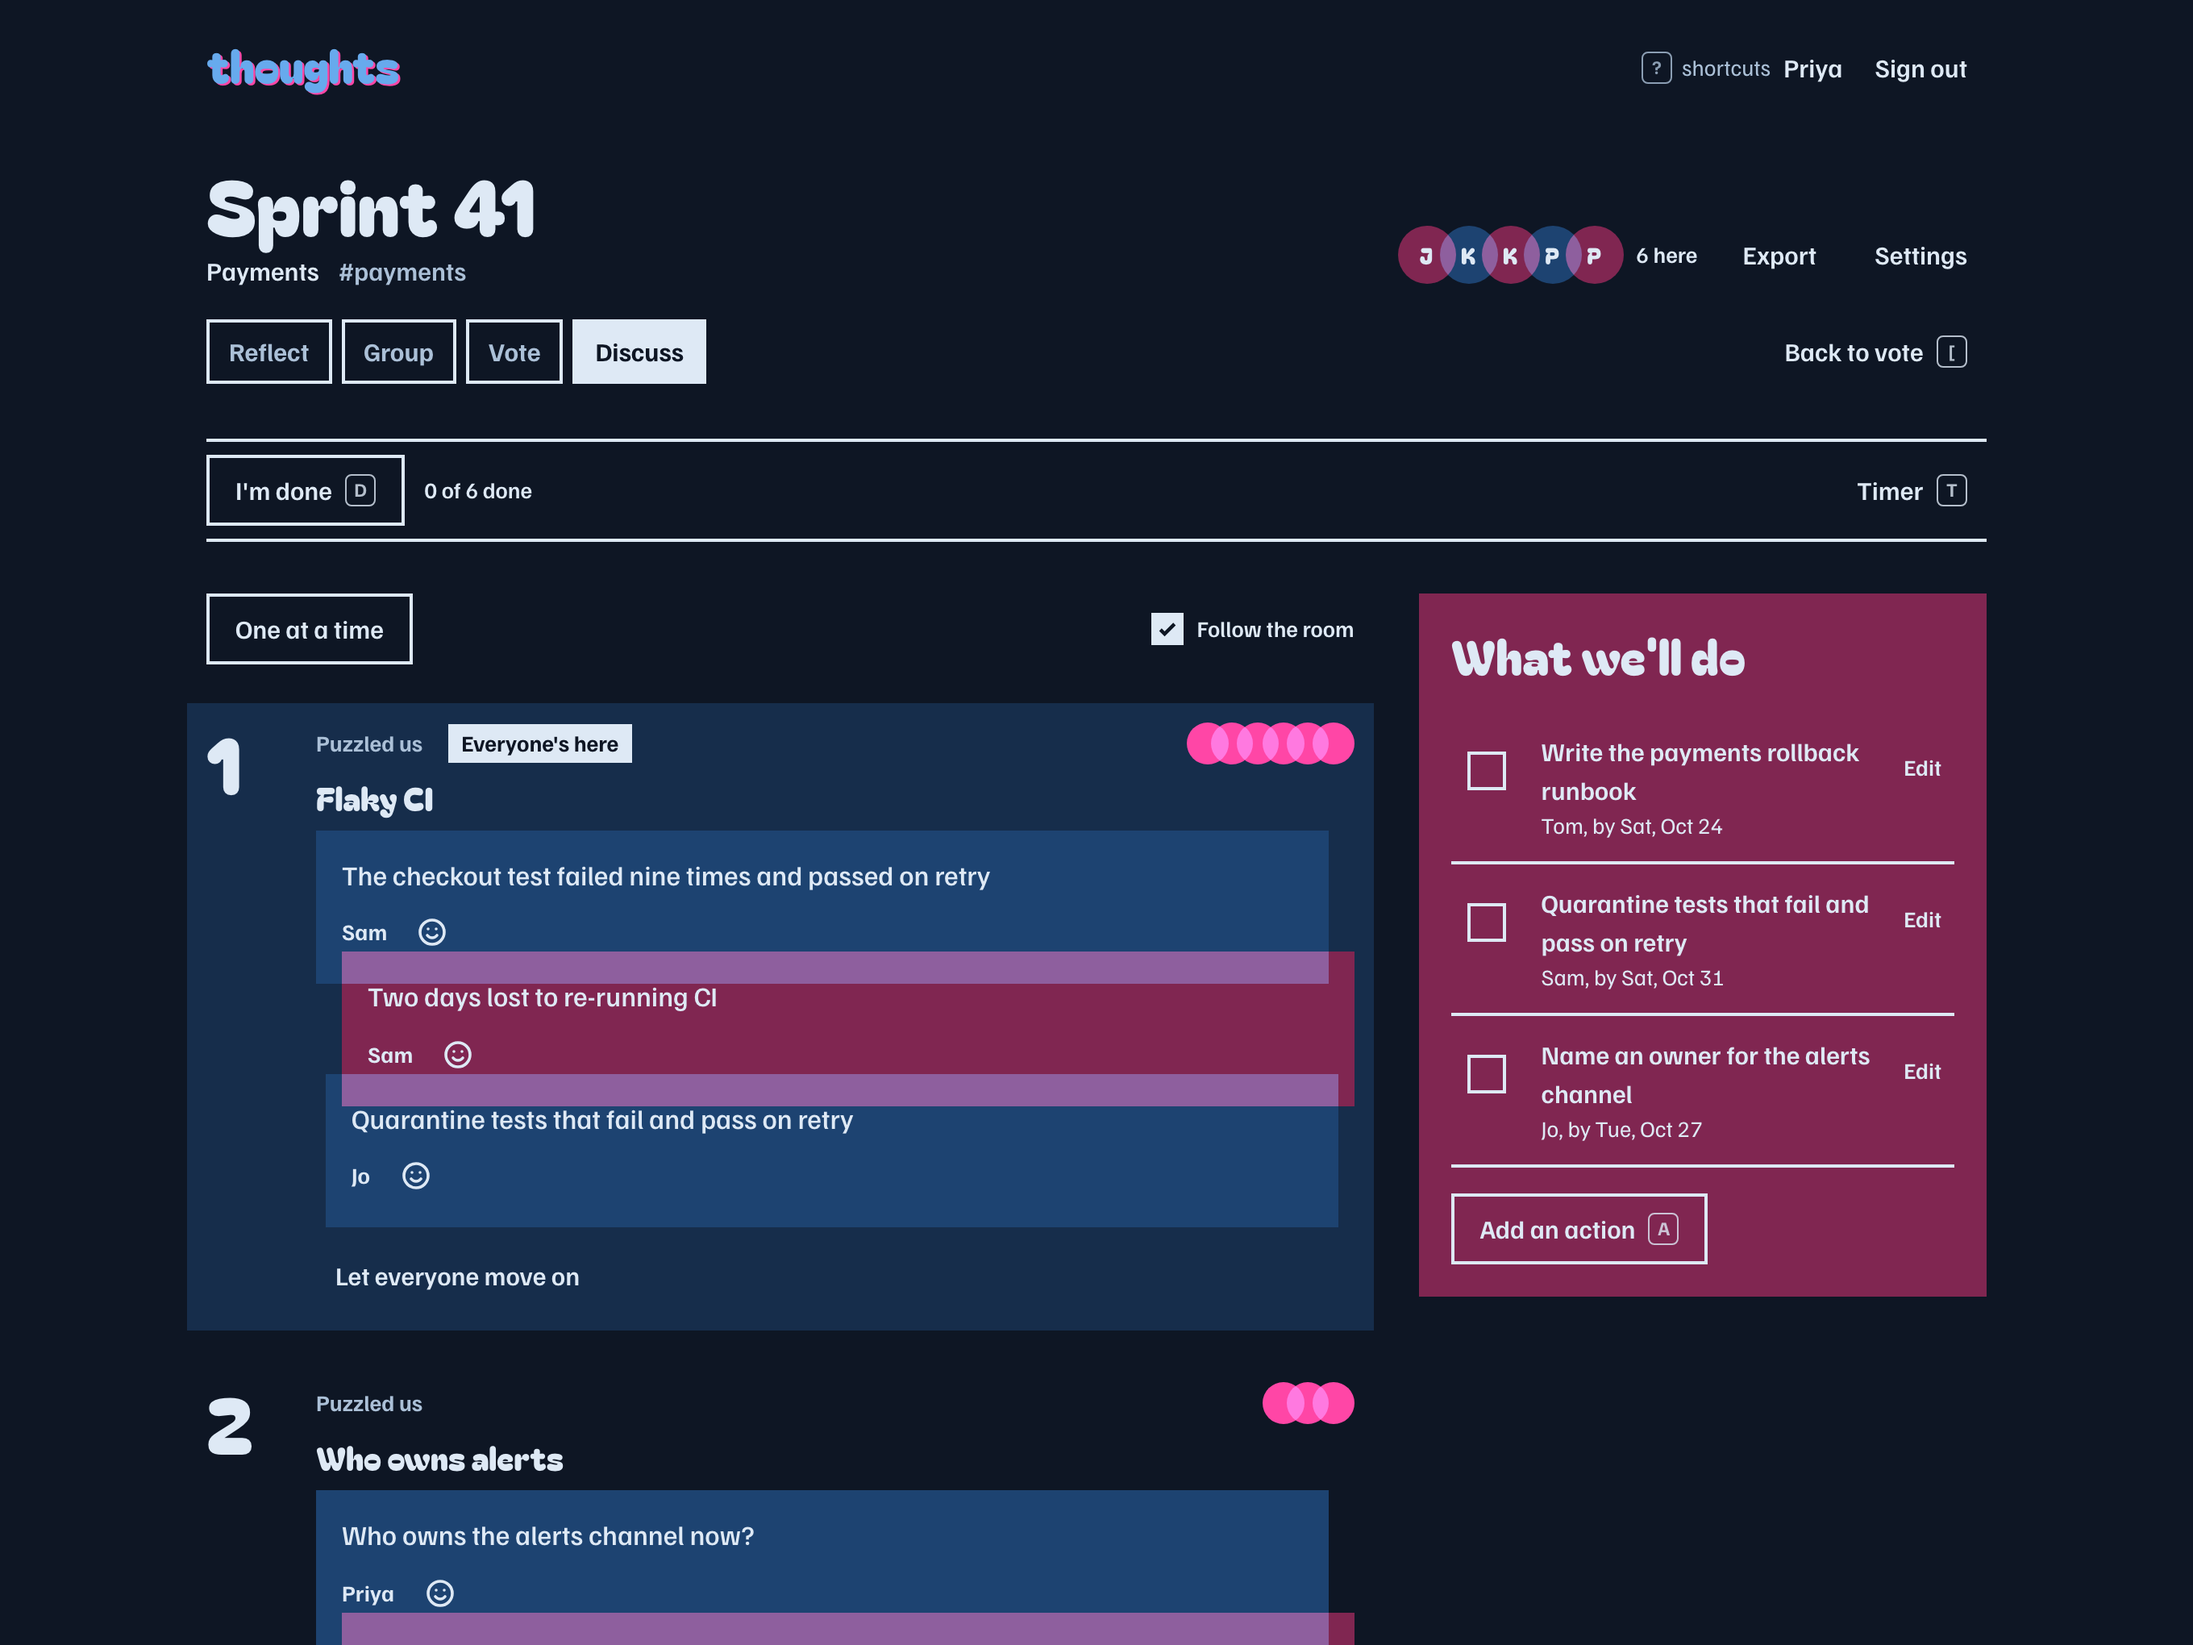
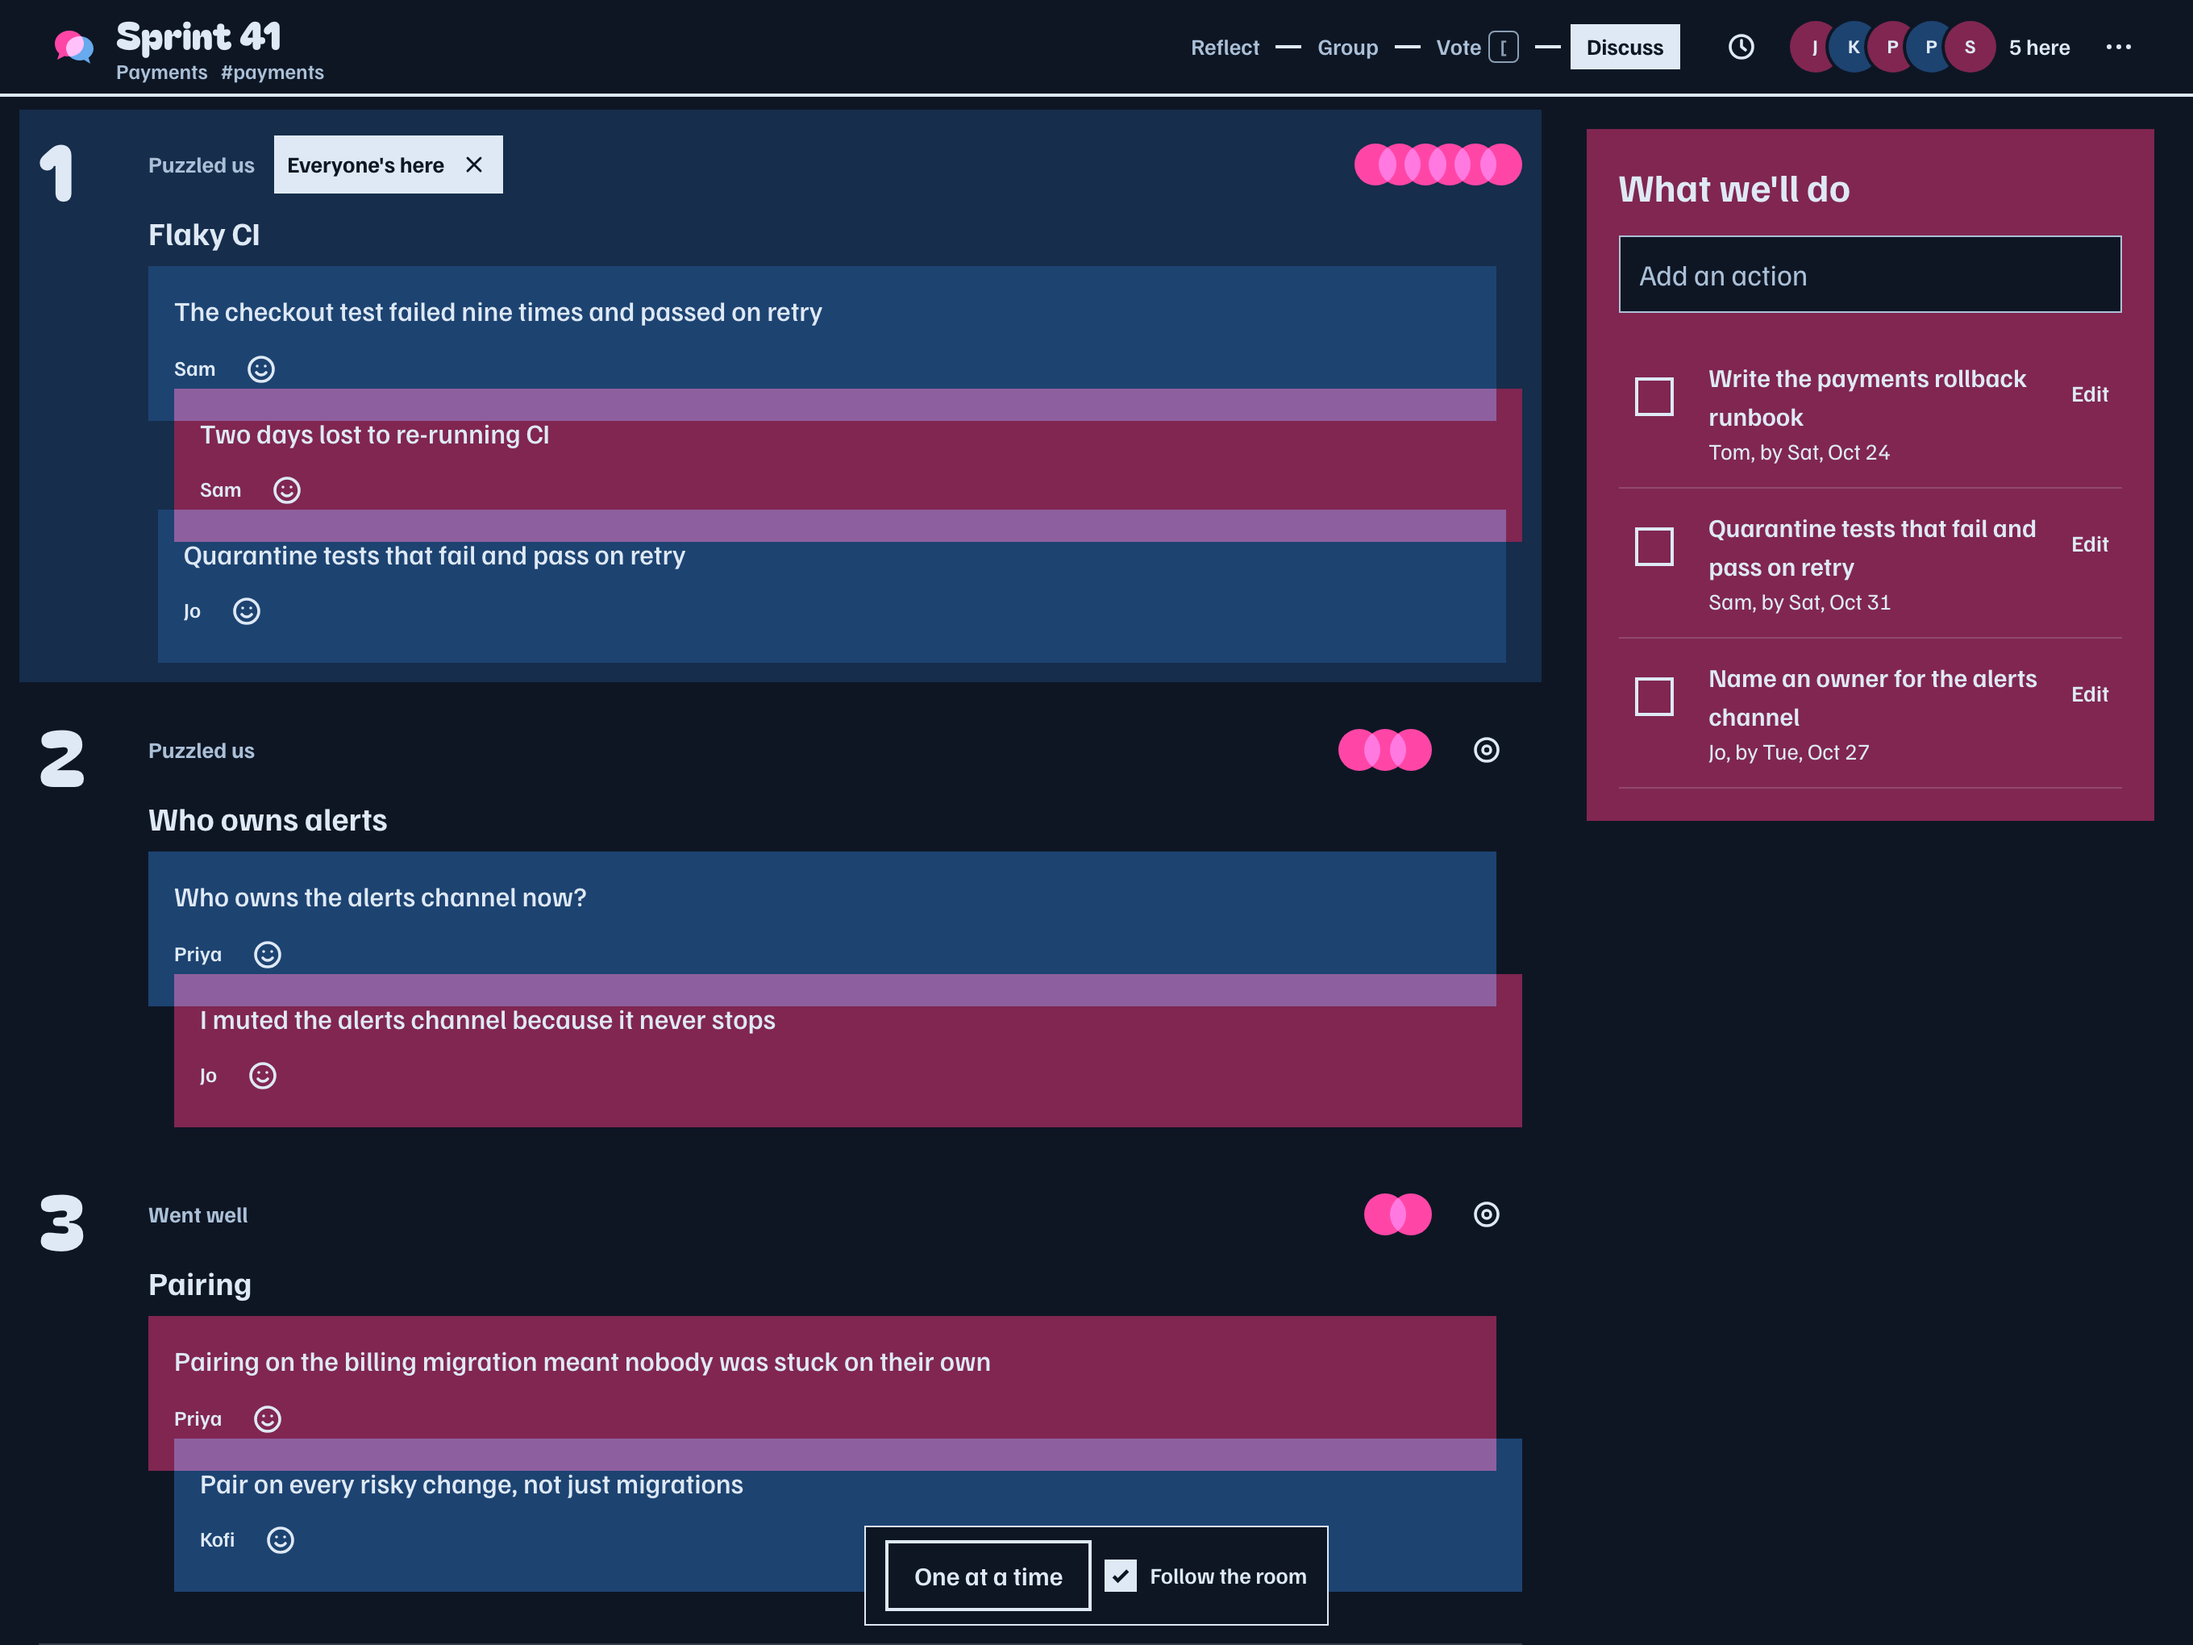
Regenerate screenshots and record the calm board
The README screenshots show the bar, the dock and stamps; the phone shot
is replaced by voting, now that Thoughts is desktop only. The README lists
the new keys and how grouping works, and design.md gets an entry for the
bar and dock, the line token, the type budget, the pink offset and motion.

diff --git a/ui/e2e/screenshots.spec.ts b/ui/e2e/screenshots.spec.ts
@@ -161,11 +161,6 @@ test("README screenshots", async ({ browser }) => {
   await settle(priya);
   await priya.screenshot({ path: out("group") });
 
-  const phone = await person(browser, "Kofi", { viewport: { width: 390, height: 844 } });
-  await phone.goto(url);
-  await settle(phone);
-  await phone.screenshot({ path: out("phone") });
-
   await send(priya, retro.id, [["stage.set", { stage: "vote" }]]);
   const votes: Record<string, string[]> = {
     Priya: ["The checkout test", "The checkout test", "Who owns the alerts"],
@@ -176,6 +171,9 @@ test("README screenshots", async ({ browser }) => {
   for (const [name, list] of Object.entries(votes)) {
     await send(people[name], retro.id, list.map((t) => ["vote.cast", { groupId: groupOf(board, t), delta: 1 }]));
   }
+  await priya.reload();
+  await settle(priya);
+  await priya.screenshot({ path: out("vote") });
   await send(priya, retro.id, [
     ["stage.set", { stage: "discuss" }],
     ["spotlight.set", { groupId: groupOf(board, "The checkout test") }],

diff --git a/docs/design.md b/docs/design.md
@@ -68,3 +68,47 @@ italic serif display, cream grounds.
   https://peopleofprint.com/best-of/pop-member-showcase-21-riso-prints/
 - Dot voting background: https://en.wikipedia.org/wiki/Dot-voting and
   https://guides.18f.gov/methods/discover/dot-voting
+
+## 2026-11-12: the calm board
+
+The zine stays; there is less chrome around it. Worked through in
+`ui-plan.md`, measured against the board as it was: four stacked header
+rows, a text button on every note and group, display type on a dozen kinds
+of heading.
+
+**Bar and dock.** Chrome is one bar at the top and one dock at the bottom.
+The bar holds what the room shares: the retro's title, the stages with the
+next one as the single solid button, the timer, who is here and the retro
+menu. The dock holds what is yours: whether you are done, the votes you
+have left, and whatever the stage adds (moving a note, one at a time,
+follow the room). Everything between them is thoughts.
+
+**The line token.** `--color-line` is ink at 18%, for hairlines between
+rows and under column titles. The 2.5px ink rule is kept for the bar's
+edge, focused inputs, outline buttons and sheets. Lists separate with
+space and a `line` hairline rather than tinted rows.
+
+**Type budget.** Bagel Fat One is for the wordmark, one title per screen,
+column titles, numerals (rank and timer) and sheet titles. Group titles,
+team names, initials and labels are Familjen Grotesk bold.
+
+**The pink offset.** A solid button's hover is a 3px pink block offset
+down and to the right, and pressing moves the button onto it. It is a
+misregistered second ink, a hard edge with no blur, not a shadow; a picked
+up note gets the same block. Retro titles in lists do the same with their
+letters.
+
+**Motion.** Motion explains a change someone else made and never delays
+input. Notes and piles glide to where a frame puts them; new notes print
+in from the top; at the reveal the halftone dots develop into flat ink;
+a band carries the new stage name across under the bar; votes land as
+stamps. Everything goes through `motion/react` under `reducedMotion="user"`,
+and a board over 120 notes swaps without moving.
+
+**Desktop only.** Thoughts is used on a laptop in a meeting. Phones are out
+of scope: the "phone first" line in the first entry no longer holds.
+Narrow windows only have to not break.
+
+Informed by: the measurements in `ui-plan.md`, print vocabulary (registration,
+halftone, rubber stamps, the roller pass) and how the board read with four
+people at once in the seeded retros.

diff --git a/README.md b/README.md
@@ -15,16 +15,19 @@ small Docker image with SQLite inside, so there's nothing else to run.
 ## What it does
 
 - **Reflect, group, vote, discuss.** Notes stay hidden, author and all,
-  until everyone moves on. Then they're grouped by dragging, or by keyboard,
-  and voted on with votes that stack like dot stickers. Discussion takes the
-  groups in order of votes.
+  until everyone moves on. Then they're grouped by dragging, by picking one
+  up and putting it down, or by keyboard, and voted on with votes that stack
+  like dot stickers. Discussion takes the groups in order of votes. One bar
+  at the top holds what the room shares; a dock at the bottom holds what's
+  yours.
 - **Actions that don't get lost.** A team's next retro opens with what the
   last one left unfinished: tick it off, carry it over or drop it.
 - **Run the room together.** A shared timer, an "I'm done" count, and a
   spotlight that brings everyone to the group being discussed. There's no
   host: anyone can do anything.
-- **Keys for the common things.** `[` `]` between stages, `a` for an
-  action, `t` for the timer. `?` lists them, `⌘K` finds anything else.
+- **Keys for the common things.** `n` to write, `[` `]` between stages,
+  `d` when you're done, `a` for an action, `t` for the timer. `?` lists
+  them, `⌘K` finds anything else.
 - **Sign in your way.** With just a name (the default, as in v1), your
   directory over LDAP with no service account, or any OpenID Connect
   provider.
@@ -37,7 +40,7 @@ small Docker image with SQLite inside, so there's nothing else to run.
 | | |
 |---|---|
 | ![Discussing, with the most-voted group in the spotlight](docs/screenshots/discuss.png) | ![The same retro in dark mode](docs/screenshots/discuss-dark.png) |
-| ![Reflecting: other people's notes are hidden](docs/screenshots/reflect.png) | ![On a phone](docs/screenshots/phone.png) |
+| ![Reflecting: other people's notes are hidden](docs/screenshots/reflect.png) | ![Voting: each vote lands as a stamp, and the dock counts what's left](docs/screenshots/vote.png) |
 
 ## Run it
 

diff --git a/docs/roadmap.md b/docs/roadmap.md
@@ -85,7 +85,7 @@ Each line is a phase in `ui-plan.md`; read that phase before starting it.
 - [x] Home, team pages, new retro and settings
 - [x] Motion: gliding notes, the reveal, the stage band, stamps
 - [ ] Instant sends for notes, votes, ready and reactions (optional)
-- [ ] Screenshots regenerated and a `design.md` entry
+- [x] Screenshots regenerated and a `design.md` entry
 
 ## Later
 
